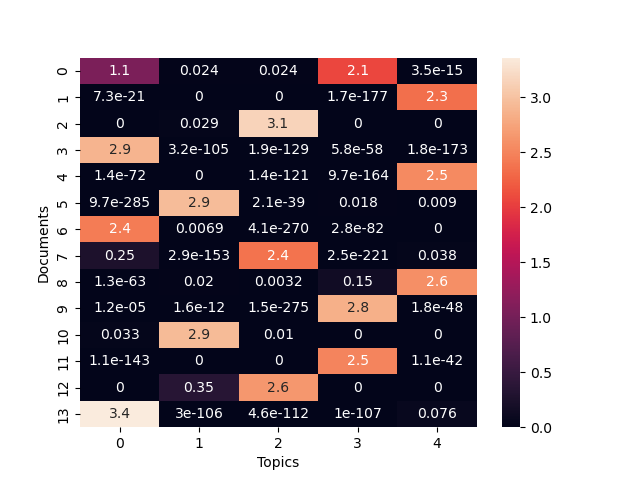
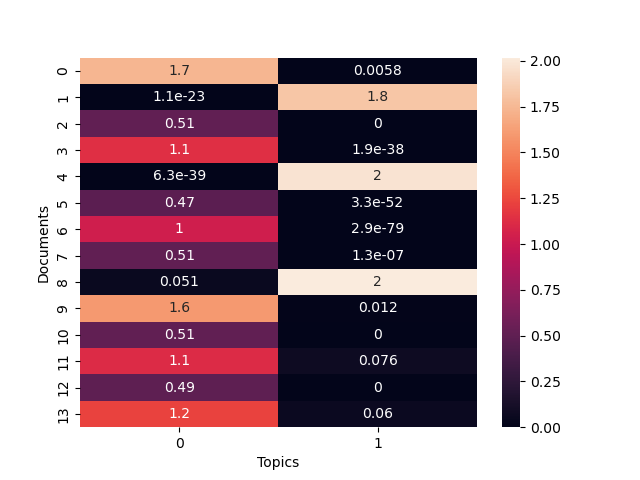
update 2 topics

diff --git a/script3.js b/script3.js
@@ -1,0 +1,61 @@
+// Charger les données depuis le fichier JSON
+document.getElementById('toggle-texts2').addEventListener('click', () => {
+    const ImageGraph = document.getElementById('image');
+    if (ImageGraph.style.display === 'none') {
+        ImageGraph.style.display = 'block';
+    } else {
+        ImageGraph.style.display = 'none';
+    }
+});
+document.getElementById('toggle-texts3').addEventListener('click', () => {
+    const ImageGraph2 = document.getElementById('image2');
+    if (ImageGraph2.style.display === 'none') {
+        ImageGraph2.style.display = 'block';
+    } else {
+        ImageGraph2.style.display = 'none';
+    }
+});
+fetch('nmf_results3.json')
+    .then(response => response.json())
+    .then(data => {
+        const { keywords_per_topic, topic_documents, document_vector } = data;
+
+        // Affichage des mots-clés par topic
+        const keywordsDiv = document.getElementById('keywords');
+        for (const [topic, keywords] of Object.entries(keywords_per_topic)) {
+            const topicDiv = document.createElement('div');
+            topicDiv.classList.add('keyword');
+            topicDiv.innerHTML = `<strong>${topic}:</strong> ${keywords.join(', ')}`;
+            keywordsDiv.appendChild(topicDiv);
+        }
+
+        // Affichage des documents par topic
+        const docsDiv = document.getElementById('docs');
+        for (const [topic, doc] of Object.entries(topic_documents)) {
+            const docDiv = document.createElement('div');
+            docDiv.classList.add('doc');
+            docDiv.innerHTML = `<strong>${topic}:</strong><br> ${doc.join(', ')}`;
+            docsDiv.appendChild(docDiv);
+        }
+        document.getElementById('toggle-texts').addEventListener('click', () => {
+            const textListDiv = document.getElementById('text-list');
+            if (textListDiv.style.display === 'none') {
+                textListDiv.style.display = 'block';
+                textListDiv.innerHTML = ''; // Clear any existing content
+        
+                // Populate with the original texts
+                document_vector.forEach((text, index) => {
+                    // Create a div containing a text with the title in bold
+                    const textDiv = document.createElement('div');
+                    textDiv.classList.add('text');
+                    textDiv.innerHTML = `<strong>${index}:</strong> ${text}`;
+                    textListDiv.appendChild(textDiv);
+
+                });
+            } else {
+                textListDiv.style.display = 'none';
+            }
+        });
+    })
+    .catch(error => console.error('Erreur lors du chargement des données:', error));
+

diff --git a/index3.html b/index3.html
@@ -8,8 +8,8 @@
 </head>
 <body>
     <h1>NMF Text Mining Results</h1>
-    <a href="index2.html">4 topics</a><br>
-    <a href="index3.html">2 topics</a>
+    <a href="index.html">3 topics</a><br>
+    <a href="index2.html">4 topics</a>
     <div id="content">
         <div id="texts">
             <h2>Original texts</h2>
@@ -21,7 +21,7 @@
             <button class="button-toggle" id="toggle-texts2">Show/Hide</button>
             <div id="image" style="display:none">
                 <h3 id="explanations">11 words on 462</h3>
-                <div><img src="heatmap.png" alt="tf-idf Matrix"></div>
+                <div><img src="heatmap3.png" alt="tf-idf Matrix"></div>
             </div>
         </div>
         <div id="topics">
@@ -35,10 +35,10 @@
         <div class="graph" id="graph2">
             <h2>Document-topic Matrix (W)</h2>
             <button class="button-toggle" id="toggle-texts3">Show/Hide</button>
-            <div id="image2" style="display:none"><img src="Doc_topic.png" alt="tf-idf Matrix"></div>
+            <div id="image2" style="display:none"><img src="Doc_topic3.png" alt="tf-idf Matrix"></div>
         </div>
     </div>
 
-    <script src="script.js"></script>
+    <script src="script3.js"></script>
 </body>
 </html>

diff --git a/index2.html b/index2.html
@@ -9,6 +9,7 @@
 <body>
     <h1>NMF Text Mining Results</h1>
     <a href="index.html" style="display: flex;">3 topics</a>
+    <a href="index3.html" style="display: flex;">2 topics</a>
     <div id="content">
         <div id="texts">
             <h2>Original texts</h2>

diff --git a/NMF_implementation.py b/NMF_implementation.py
@@ -121,7 +121,7 @@ plt.autoscale()
 plt.savefig("heatmap3.png")
 plt.show()
 
-n_topics = 5
+n_topics = 2
 
 # Step 2: Apply NMF for topic modeling
 def apply_nmf(n_topics, X_input):
